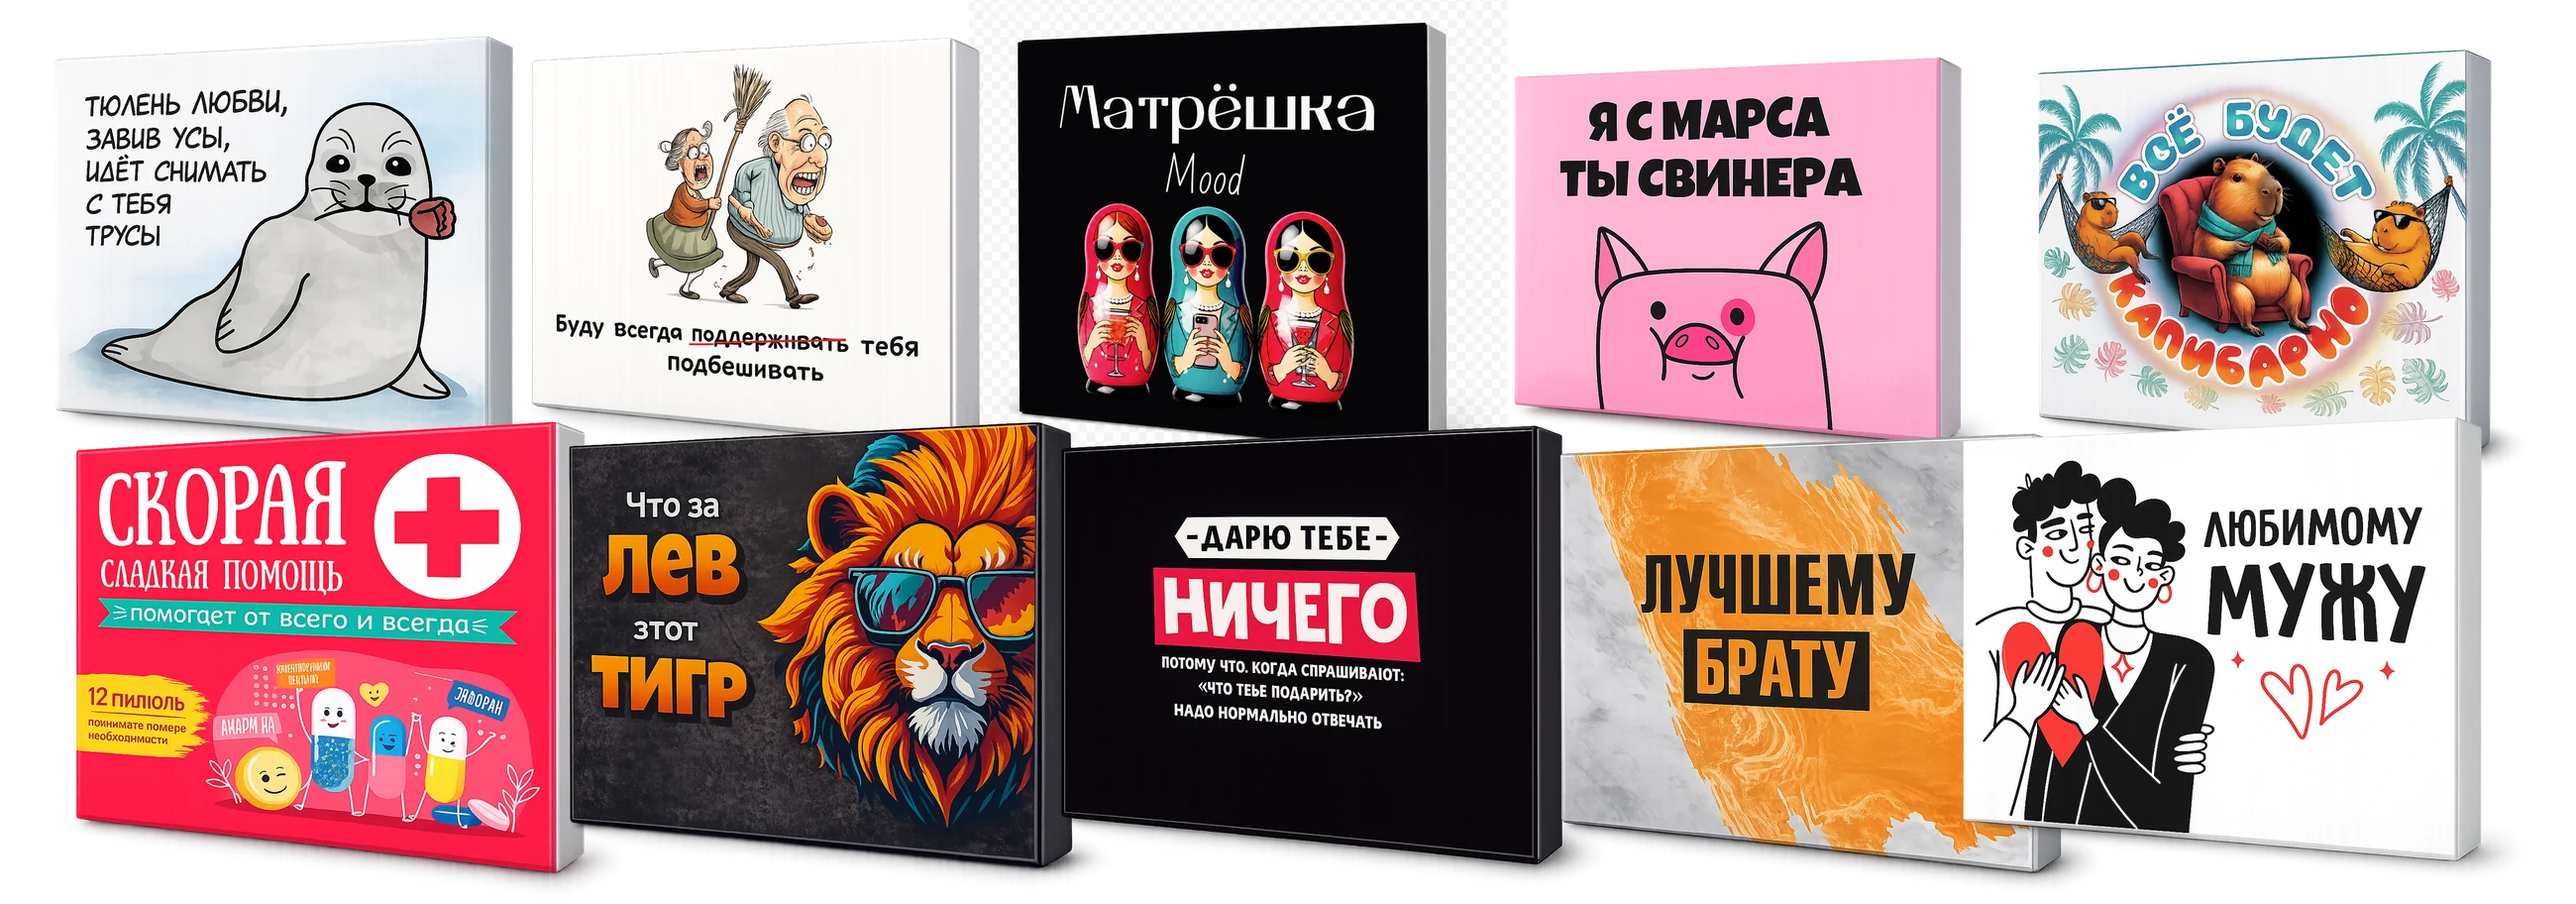
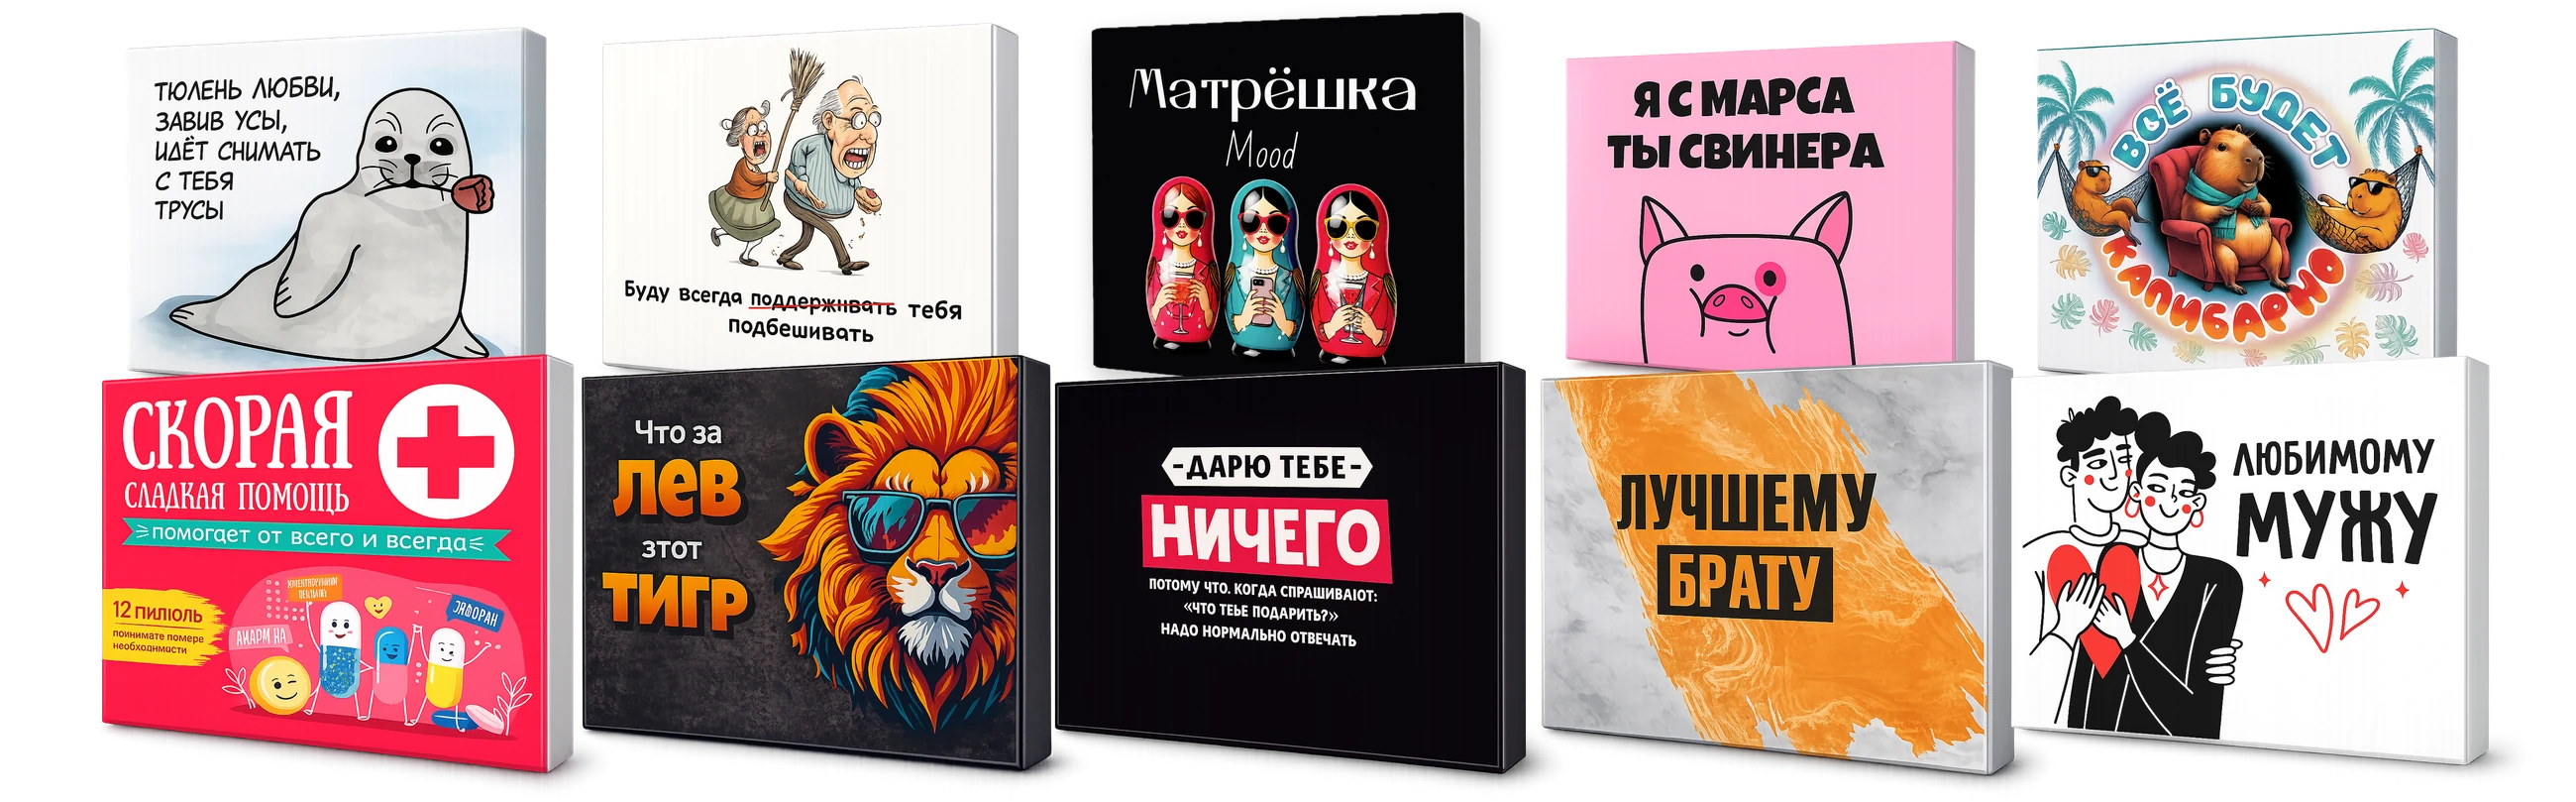
Матрёшка без фона, равные промежутки в раскладке боксов

diff --git a/tools/bg-remove.swift b/tools/bg-remove.swift
@@ -1,0 +1,31 @@
+import Foundation
+import Vision
+import CoreImage
+
+let args = CommandLine.arguments
+guard args.count == 3 else { print("usage: bg-remove <input> <output.png>"); exit(1) }
+let inURL = URL(fileURLWithPath: args[1])
+let outURL = URL(fileURLWithPath: args[2])
+guard let ciImage = CIImage(contentsOf: inURL) else { print("ERROR load"); exit(1) }
+
+let request = VNGenerateForegroundInstanceMaskRequest()
+let handler = VNImageRequestHandler(ciImage: ciImage)
+do { try handler.perform([request]) } catch { print("ERROR vision \(error)"); exit(2) }
+guard let result = request.results?.first else { print("ERROR no fg"); exit(3) }
+
+let maskBuffer: CVPixelBuffer
+do { maskBuffer = try result.generateScaledMaskForImage(forInstances: result.allInstances, from: handler) }
+catch { print("ERROR mask \(error)"); exit(4) }
+
+let maskCI = CIImage(cvPixelBuffer: maskBuffer)
+let clearBG = CIImage(color: CIColor.clear).cropped(to: ciImage.extent)
+guard let filter = CIFilter(name: "CIBlendWithMask") else { exit(5) }
+filter.setValue(ciImage, forKey: kCIInputImageKey)
+filter.setValue(clearBG, forKey: kCIInputBackgroundImageKey)
+filter.setValue(maskCI, forKey: kCIInputMaskImageKey)
+guard let output = filter.outputImage else { print("ERROR blend"); exit(6) }
+
+let context = CIContext()
+guard let srgb = CGColorSpace(name: CGColorSpace.sRGB) else { exit(7) }
+do { try context.writePNGRepresentation(of: output, to: outURL, format: .RGBA8, colorSpace: srgb); print("OK") }
+catch { print("ERROR write \(error)"); exit(8) }

diff --git a/tools/compose_new.py b/tools/compose_new.py
@@ -1,37 +1,41 @@
 #!/usr/bin/env python3
-"""Раскладка новых боксов (уже с прозрачным фоном, объёмом и тенью) — два ряда с лёгким наложением."""
+"""Раскладка новых боксов — 5 ровных колонок, два ряда с равными промежутками."""
 import os
 from PIL import Image
 
 SRC = os.path.expanduser("~/Claude/Projects/youlab-landing/img/new/ordered")
 OUT = os.path.expanduser("~/Claude/Projects/youlab-landing/img/boxes.webp")
 
-CW, CH = 3960, 1650
-# (номер, x центра, y верха, высота); порядок отрисовки — по списку (позже = сверху)
-ROW_BACK = [(3,430,40,715),(10,1160,50,705),(4,1900,30,725),(1,2660,50,715),(6,3470,60,705)]
-ROW_FRONT = [(7,500,625,790),(8,1250,625,785),(5,2010,620,780),(9,2760,635,775),(2,3400,615,795)]
-BACK_ORDER = [4,1,10,3,6]
-FRONT_ORDER = [7,8,5,9,2]
+MARGIN = 560
+STEP = 800                      # равный шаг между колонками
+COLS = [MARGIN + i*STEP for i in range(5)]   # 560,1360,2160,2960,3760
+CW = COLS[-1] + MARGIN          # симметричные поля
+CH = 1620
 
-def spec(n, table):
-    return next(t for t in table if t[0]==n)
+BACK_H, BACK_TOP = 715, 70
+FRONT_H, FRONT_TOP = 800, 610
 
-def place(canvas, n, table):
-    _,cx,top,h = spec(n, table)
+# какой бокс в какой колонке (слева направо)
+BACK = [3, 10, 4, 1, 6]         # тюлень, подбешивать, матрёшка, свинья, капибара
+FRONT = [7, 8, 5, 9, 2]         # скорая, лев, ничего, брату, мужу
+
+def place(canvas, n, cx, top, h):
     im = Image.open(os.path.join(SRC, f"n{n}.png")).convert("RGBA")
     w = int(im.width * h / im.height)
-    im = im.resize((w,h), Image.LANCZOS)
-    canvas.alpha_composite(im, (int(cx-w/2), int(top)))
+    im = im.resize((w, h), Image.LANCZOS)
+    canvas.alpha_composite(im, (int(cx - w/2), int(top)))
 
-canvas = Image.new("RGBA",(CW,CH),(0,0,0,0))
-for n in BACK_ORDER: place(canvas, n, ROW_BACK)
-for n in FRONT_ORDER: place(canvas, n, ROW_FRONT)
+canvas = Image.new("RGBA", (CW, CH), (0,0,0,0))
+for col, n in zip(COLS, BACK):   # задний ряд, слева направо (правый сосед сверху)
+    place(canvas, n, col, BACK_TOP, BACK_H)
+for col, n in zip(COLS, FRONT):  # передний ряд поверх заднего
+    place(canvas, n, col, FRONT_TOP, FRONT_H)
 
 canvas = canvas.crop(canvas.getbbox())
 big = canvas.copy(); big.thumbnail((2600,2600), Image.LANCZOS)
 big.save(OUT, quality=88, method=6)
 
-prev = canvas.copy(); prev.thumbnail((1800,1800))
+prev = canvas.copy(); prev.thumbnail((1900,1900))
 bg = Image.new("RGB", prev.size, (255,120,160)); bg.paste(prev,(0,0),prev)
 bg.save("/private/tmp/claude-501/-Users-angelinasergeeva/e5004884-b407-46cb-b76f-1d9d9b2bb171/scratchpad/new_layout.jpg", quality=88)
 print(OUT, canvas.size)